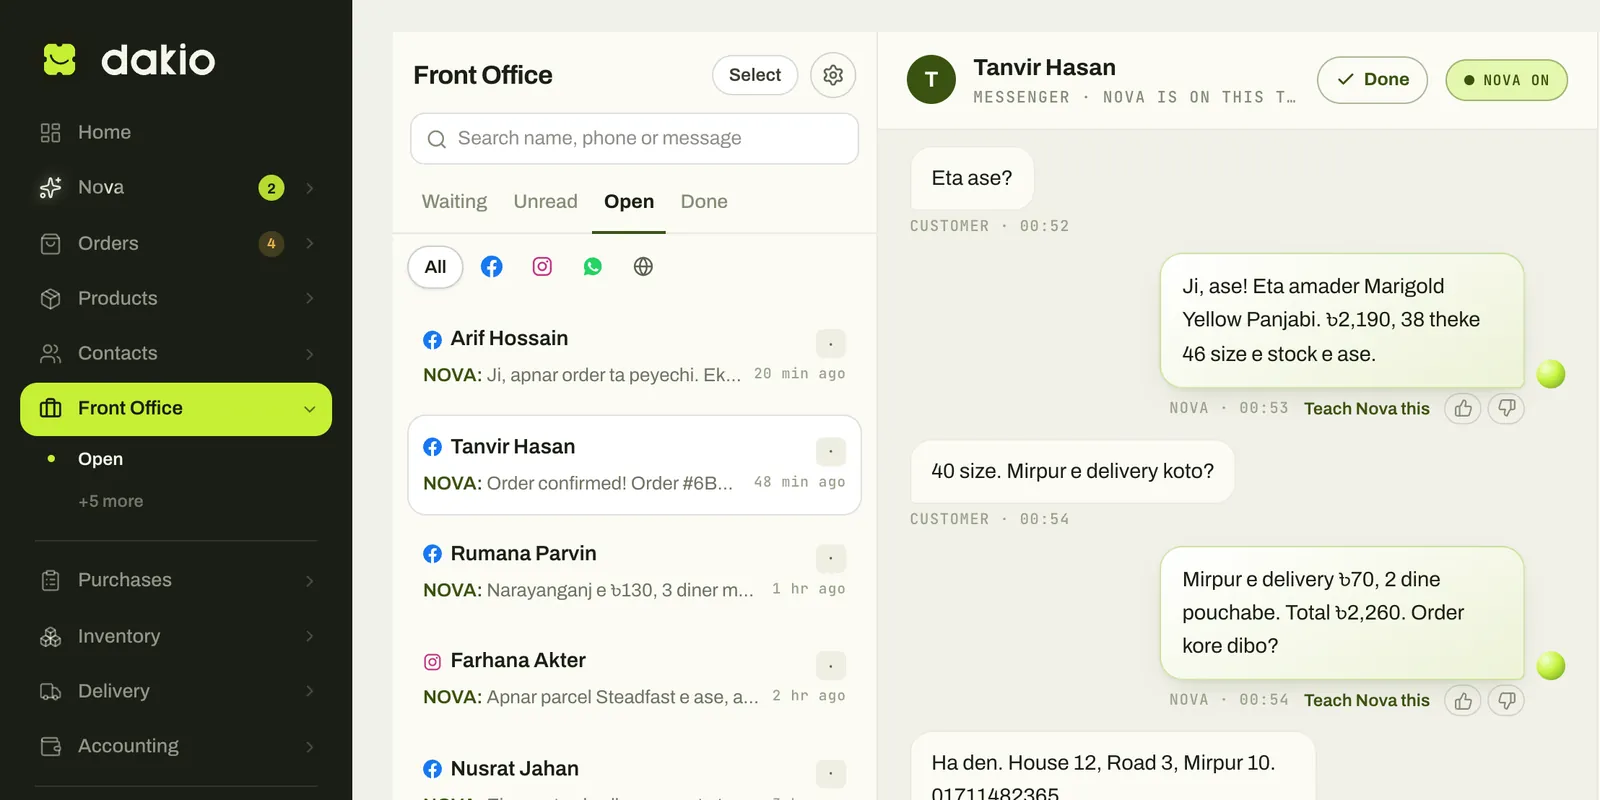
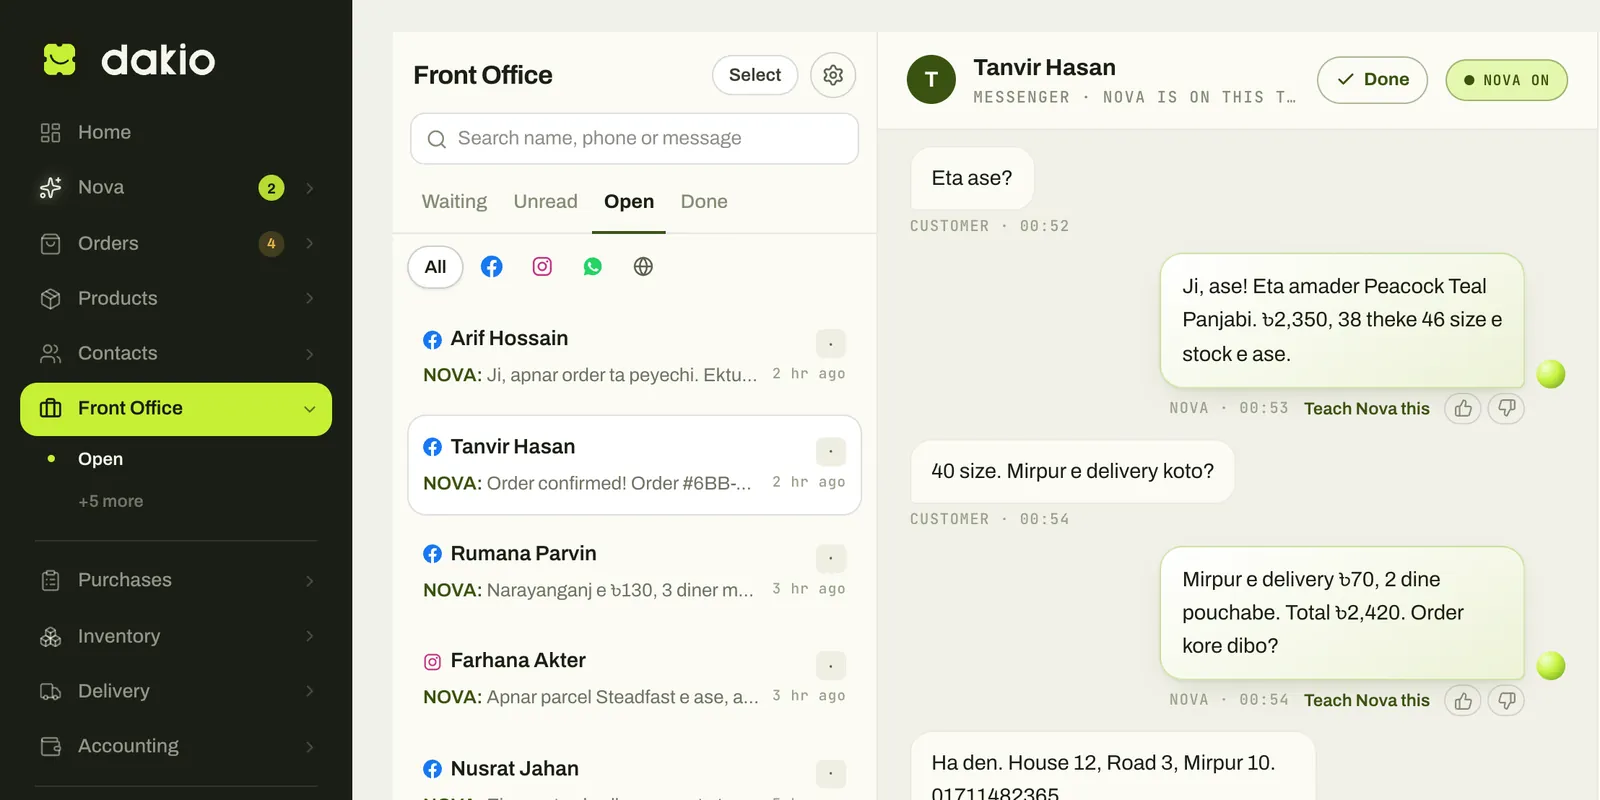
feat(home): the shop story uses the Peacock Teal Panjabi
A cleaner, editorial photo from Saril's own catalogue replaces the
Marigold Yellow Panjabi in the live chat, its product card, the 3D monitor
row and the copy (৳2,350 + ৳70 = ৳2,420, still order #6BB-VHQ6). The real
Orders and Inbox screenshots are re-shot to match. Chat photos are
anchored to the top so the model is never cropped.

diff --git a/content/copy/home.bn.js b/content/copy/home.bn.js
@@ -78,7 +78,7 @@ const home = {
       in: { t: "চ্যাট আসে", d: "মেসেঞ্জার, ইনস্টাগ্রাম, হোয়াটসঅ্যাপ আর আপনার ওয়েবসাইটের চ্যাট, সব এক ইনবক্সে।" },
       nova: { t: "Nova সিদ্ধান্ত নেয়", d: "মেসেজ পড়ে, দাম, স্টক আর খালি সময় মিলিয়ে, কয়েক সেকেন্ডে বাংলা বা ইংরেজিতে উত্তর দেয়।" },
       app: {
-        shop: { t: "অর্ডার তৈরি", d: "অর্ডার #6BB-VHQ6: ম্যারিগোল্ড ইয়েলো পাঞ্জাবি, সাইজ ৪০, ৳২,২৬০ ক্যাশ অন ডেলিভারি। স্টক নিজে থেকেই একটা কমে যায়, কাউকে কিছু টাইপ করতে হয়নি।" },
+        shop: { t: "অর্ডার তৈরি", d: "অর্ডার #6BB-VHQ6: পিকক টিল পাঞ্জাবি, সাইজ ৪০, ৳২,৪২০ ক্যাশ অন ডেলিভারি। স্টক নিজে থেকেই একটা কমে যায়, কাউকে কিছু টাইপ করতে হয়নি।" },
         svc: { t: "বুকিং তৈরি", d: "ব্রাইডাল ট্রায়াল, শুক্রবার বিকেল ৪টা, কনফার্মড। ক্যালেন্ডারে আর Rina-র দিনের তালিকায় উঠে গেছে, আর ক্লায়েন্টের ডিল নিজে থেকেই চলে গেছে ট্রায়াল / বুকিং ধাপে।" },
       },
       out: {
@@ -95,7 +95,7 @@ const home = {
     screens: [
       { key: "shop-orders", show: "shop", tab: "অর্ডার", url: "app.dakio.io/orders", alt: "Saril-এর Dakio অর্ডার পাতা: স্ট্যাটাস অনুযায়ী অর্ডারের সংখ্যা আর ছবি, কাস্টমার, মোট টাকা আর কুরিয়ার সহ অর্ডারের তালিকা", cap: "সব অর্ডার এক তালিকায়: চ্যাট, কমেন্ট, ওয়েবসাইট আর কাউন্টার থেকে, স্ট্যাটাস আর কুরিয়ার সহ।" },
       { key: "shop-products", show: "shop", tab: "প্রোডাক্ট আর স্টক", url: "app.dakio.io/products", alt: "Saril-এর Dakio প্রোডাক্ট পাতা: ছবি, ক্যাটাগরি, কেনা আর বিক্রির দাম, আর স্টক", cap: "আপনার পুরো ক্যাটালগ: ছবি, কেনা আর বিক্রির দাম, আর কতটা স্টকে আছে।" },
-      { key: "shop-inbox", show: "shop", tab: "ইনবক্স", url: "app.dakio.io/front-office", alt: "Dakio ফ্রন্ট অফিস ইনবক্স: মেসেঞ্জার আর ইনস্টাগ্রামের চ্যাট, আর Nova একটা Marigold Yellow Panjabi-র অর্ডার নিচ্ছে", cap: "মেসেঞ্জার, ইনস্টাগ্রাম আর হোয়াটসঅ্যাপ এক ইনবক্সে। এখানে Nova নিচ্ছে Marigold Yellow Panjabi-র অর্ডার।" },
+      { key: "shop-inbox", show: "shop", tab: "ইনবক্স", url: "app.dakio.io/front-office", alt: "Dakio ফ্রন্ট অফিস ইনবক্স: মেসেঞ্জার আর ইনস্টাগ্রামের চ্যাট, আর Nova একটা Peacock Teal Panjabi-র অর্ডার নিচ্ছে", cap: "মেসেঞ্জার, ইনস্টাগ্রাম আর হোয়াটসঅ্যাপ এক ইনবক্সে। এখানে Nova নিচ্ছে Peacock Teal Panjabi-র অর্ডার।" },
       { key: "svc-calendar", show: "svc", tab: "ক্যালেন্ডার", url: "app.dakio.io/bookings", alt: "Glow Studio-র Dakio বুকিং ক্যালেন্ডার: ক্লায়েন্ট, সার্ভিস আর আর্টিস্ট সহ এক সপ্তাহের বুকিং", cap: "এক নজরে পুরো সপ্তাহ: কে আসবেন, কখন, কী সার্ভিস আর কোন আর্টিস্টের কাছে। ঝিকমিক চিহ্ন মানে বুকিংটা Nova করেছে।" },
       { key: "svc-client", show: "svc", tab: "ক্লায়েন্টের পাতা", url: "app.dakio.io/customers", alt: "একজন কনের Dakio ক্লায়েন্ট পাতা: বিয়ের তারিখ, এলাকা, বাজেট, পরের বুকিং, চলতি ডিল আর বাকি টাকা", cap: "প্রতি ক্লায়েন্টের এক পাতা: বিয়ের তারিখ আর বাজেট, পরের বুকিং, ডিল আর কত টাকা বাকি।" },
       { key: "svc-pipeline", show: "svc", tab: "পাইপলাইন", url: "app.dakio.io/pipeline", alt: "Glow Studio-র Dakio পাইপলাইন: ধাপ অনুযায়ী এনকোয়ারি, টাকার অঙ্ক আর কে দেখছেন", cap: "প্রথম মেসেজ থেকে কনফার্ম পর্যন্ত প্রতিটা এনকোয়ারি, টাকার অঙ্ক আর কে দেখছেন সহ।" },
@@ -186,12 +186,12 @@ const home = {
     after: "তারপর Dakio নিজেই চালিয়ে যায়, আপনাকে ছাড়াই:",
     head: { shop: { name: "Saril", channel: "Messenger" }, svc: { name: "Glow Studio", channel: "Instagram" } },
     shop: [
-      { from: "them", shot: "Saril · Marigold Yellow Panjabi", img: "/demo/saril/marigold-yellow-panjabi.jpg", t: "এটা আছে?" },
-      { from: "nova", t: "জি, আছে! এটা আমাদের Marigold Yellow Panjabi।", product: { n: "Marigold Yellow Panjabi", p: "৳২,১৯০", note: "৩৮ থেকে ৪৬ সাইজ স্টকে আছে", img: "/demo/saril/marigold-yellow-panjabi.jpg" } },
+      { from: "them", shot: "Saril · Peacock Teal Panjabi", img: "/demo/saril/peacock-teal-panjabi.jpg", t: "এটা আছে?" },
+      { from: "nova", t: "জি, আছে! এটা আমাদের Peacock Teal Panjabi।", product: { n: "Peacock Teal Panjabi", p: "৳২,৩৫০", note: "৩৮ থেকে ৪৬ সাইজ স্টকে আছে", img: "/demo/saril/peacock-teal-panjabi.jpg" } },
       { from: "them", t: "৪০ সাইজ। মিরপুরে ডেলিভারি কত?" },
-      { from: "nova", t: "মিরপুরে ডেলিভারি ৳৭০, ২ দিনে পৌঁছাবে। মোট ৳২,২৬০। অর্ডার করে দিই?" },
+      { from: "nova", t: "মিরপুরে ডেলিভারি ৳৭০, ২ দিনে পৌঁছাবে। মোট ৳২,৪২০। অর্ডার করে দিই?" },
       { from: "them", t: "হ্যাঁ দেন। মিরপুর ১০, 01711-xxxxxx" },
-      { from: "nova", t: "অর্ডার কনফার্ম! রসিদ পাঠালাম। পার্সেল পাঠালে জানাব।", card: { t: "অর্ডার #6BB-VHQ6 · ৳২,২৬০", d: "ক্যাশ অন ডেলিভারি · আপনার অর্ডার তালিকায় উঠে গেছে" } },
+      { from: "nova", t: "অর্ডার কনফার্ম! রসিদ পাঠালাম। পার্সেল পাঠালে জানাব।", card: { t: "অর্ডার #6BB-VHQ6 · ৳২,৪২০", d: "ক্যাশ অন ডেলিভারি · আপনার অর্ডার তালিকায় উঠে গেছে" } },
     ],
     svc: [
       { from: "them", t: "শুক্রবার ব্রাইডাল ট্রায়াল করা যাবে?" },

diff --git a/content/copy/home.en.js b/content/copy/home.en.js
@@ -88,7 +88,7 @@ const home = {
       in: { t: "Chats come in", d: "Messenger, Instagram, WhatsApp and the chat on your website land in one inbox." },
       nova: { t: "Nova decides", d: "She reads the message, checks the price, the stock and the free times, and answers in Bangla or English in seconds." },
       app: {
-        shop: { t: "Order is made", d: "Order #6BB-VHQ6: Marigold Yellow Panjabi, size 40, ৳2,260 cash on delivery. Stock goes down by one on its own, and nobody typed a thing." },
+        shop: { t: "Order is made", d: "Order #6BB-VHQ6: Peacock Teal Panjabi, size 40, ৳2,420 cash on delivery. Stock goes down by one on its own, and nobody typed a thing." },
         svc: { t: "Booking is made", d: "Bridal trial, Friday 4 PM, confirmed. It is on the calendar and on Rina's day list, and the client's deal moves to Trial / booking by itself." },
       },
       out: {
@@ -107,7 +107,7 @@ const home = {
     screens: [
       { key: "shop-orders", show: "shop", tab: "Orders", url: "app.dakio.io/orders", alt: "Dakio Orders page for Saril: order counts by status and a list of orders with photos, customers, totals and couriers", cap: "Every order in one list, from chats, comments, your website and the counter, with its status and courier." },
       { key: "shop-products", show: "shop", tab: "Products and stock", url: "app.dakio.io/products", alt: "Dakio Products page for Saril: products with photos, category, purchase and selling price, and stock", cap: "Your catalogue with photos, purchase and selling price, and the stock you have." },
-      { key: "shop-inbox", show: "shop", tab: "Inbox", url: "app.dakio.io/front-office", alt: "Dakio Front Office inbox: chats from Messenger and Instagram, and Nova taking an order for a Marigold Yellow Panjabi", cap: "Messenger, Instagram and WhatsApp in one inbox. Here Nova takes the Marigold Yellow Panjabi order." },
+      { key: "shop-inbox", show: "shop", tab: "Inbox", url: "app.dakio.io/front-office", alt: "Dakio Front Office inbox: chats from Messenger and Instagram, and Nova taking an order for a Peacock Teal Panjabi", cap: "Messenger, Instagram and WhatsApp in one inbox. Here Nova takes the Peacock Teal Panjabi order." },
       { key: "svc-calendar", show: "svc", tab: "Calendar", url: "app.dakio.io/bookings", alt: "Dakio Bookings calendar for Glow Studio: a week of bookings with the client, service and artist", cap: "The week at a glance: who comes, when, for what and with which artist. The sparkle marks a booking Nova made." },
       { key: "svc-client", show: "svc", tab: "Client page", url: "app.dakio.io/customers", alt: "Dakio client page for a bride: wedding date, area, budget, next booking, open deal and balance due", cap: "One page per client: her wedding date and budget, the next booking, the deal and what she still owes." },
       { key: "svc-pipeline", show: "svc", tab: "Pipeline", url: "app.dakio.io/pipeline", alt: "Dakio Pipeline board for Glow Studio: enquiries by stage with value and who handles each", cap: "Every enquiry from the first message to won, with its value and who is on it." },
@@ -204,12 +204,12 @@ const home = {
     after: "Then Dakio carries on, without you:",
     head: { shop: { name: "Saril", channel: "Messenger" }, svc: { name: "Glow Studio", channel: "Instagram" } },
     shop: [
-      { from: "them", shot: "Saril · Marigold Yellow Panjabi", img: "/demo/saril/marigold-yellow-panjabi.jpg", t: "Eta ase?" },
-      { from: "nova", t: "Ji, ase! Eta amader Marigold Yellow Panjabi.", product: { n: "Marigold Yellow Panjabi", p: "৳2,190", note: "38 to 46 in stock", img: "/demo/saril/marigold-yellow-panjabi.jpg" } },
+      { from: "them", shot: "Saril · Peacock Teal Panjabi", img: "/demo/saril/peacock-teal-panjabi.jpg", t: "Eta ase?" },
+      { from: "nova", t: "Ji, ase! Eta amader Peacock Teal Panjabi.", product: { n: "Peacock Teal Panjabi", p: "৳2,350", note: "38 to 46 in stock", img: "/demo/saril/peacock-teal-panjabi.jpg" } },
       { from: "them", t: "40 size. Mirpur e delivery koto?" },
-      { from: "nova", t: "Mirpur e delivery ৳70, 2 dine pouchabe. Total ৳2,260. Order kore dibo?" },
+      { from: "nova", t: "Mirpur e delivery ৳70, 2 dine pouchabe. Total ৳2,420. Order kore dibo?" },
       { from: "them", t: "Ha den. Mirpur 10, 01711-xxxxxx" },
-      { from: "nova", t: "Order confirmed! Receipt pathalam. Parcel pathale janabo.", card: { t: "Order #6BB-VHQ6 · ৳2,260", d: "Cash on delivery · now in your Orders" } },
+      { from: "nova", t: "Order confirmed! Receipt pathalam. Parcel pathale janabo.", card: { t: "Order #6BB-VHQ6 · ৳2,420", d: "Cash on delivery · now in your Orders" } },
     ],
     svc: [
       { from: "them", t: "Friday bridal trial kora jabe?" },

diff --git a/app/home.css b/app/home.css
@@ -157,10 +157,10 @@
 .hm-typing-bubble i:nth-child(2) { animation-delay: .15s; }
 .hm-typing-bubble i:nth-child(3) { animation-delay: .3s; }
 .hm-shot { width: 150px; border-radius: 14px; overflow: hidden; border: 1px solid #E3E5DA; background: #FFFFFF; display: grid; }
-.hm-shot-img { display: block; width: 100%; height: 150px; object-fit: cover; object-position: 50% 22%; background: #E9EADF; }
+.hm-shot-img { display: block; width: 100%; height: 170px; object-fit: cover; object-position: 50% 0%; background: #E9EADF; }
 .hm-shot-cap { padding: 6px 9px; font-size: 11px; color: #4A4D40; }
 .hm-pcard { display: flex; gap: 10px; align-items: center; padding: 8px; border-radius: 14px; background: #FFFFFF; border: 1px solid #E3E5DA; }
-.hm-pcard-img { display: block; width: 44px; height: 56px; border-radius: 9px; flex-shrink: 0; object-fit: cover; object-position: 50% 20%; background: #E9EADF; }
+.hm-pcard-img { display: block; width: 44px; height: 56px; border-radius: 9px; flex-shrink: 0; object-fit: cover; object-position: 50% 8%; background: #E9EADF; }
 .hm-pcard-txt { display: grid; gap: 2px; font-size: 12.5px; color: #55584B; }
 .hm-pcard-txt b { font-size: 13px; color: #1A1D12; }
 .hm-chips { display: flex; gap: 6px; flex-wrap: wrap; }

diff --git a/components/home/NovaMachine.jsx b/components/home/NovaMachine.jsx
@@ -21,7 +21,7 @@ const SCREENS = {
   shop: {
     title: "Orders", sub: "Saril · today", menu: ["Orders", "Products", "Customers", "Inbox", "Couriers"], byNova: "BY NOVA",
     cols: [{ h: "Order", x: 0 }, { h: "Area", x: 140 }, { h: "Items", x: 300 }, { h: "Total", x: 580 }, { h: "Payment", x: 700 }],
-    fresh: ["#6BB-VHQ6", "Mirpur 10", "Marigold Yellow Panjabi · 40", "৳2,260", "COD"],
+    fresh: ["#6BB-VHQ6", "Mirpur 10", "Peacock Teal Panjabi · 40", "৳2,420", "COD"],
     rows: [
       ["#8CG-HH5N", "Dhanmondi", "2 items", "৳4,170", "bKash"],
       ["#5XW-LWHP", "Khilgaon", "1 item", "৳2,420", "COD"],

diff --git a/HOME_COPY.md b/HOME_COPY.md
@@ -123,8 +123,8 @@ _Below the headline, across the hero: a 3D line drawn in thin light outlines on 
 - BN: নোভা সিদ্ধান্ত নেয়: মেসেজ পড়ে, দাম, স্টক আর খালি সময় মিলিয়ে, কয়েক সেকেন্ডে বাংলা বা ইংরেজিতে উত্তর দেয়।
 
 **03 · Shop · Order is made**
-- EN: Order is made: Order #6BB-VHQ6: Marigold Yellow Panjabi, size 40, ৳2,260 cash on delivery. In your orders, nobody typed it.
-- BN: অর্ডার তৈরি: অর্ডার #6BB-VHQ6: ম্যারিগোল্ড ইয়েলো পাঞ্জাবি, সাইজ ৪০, ৳২,২৬০ ক্যাশ অন ডেলিভারি। আপনার অর্ডারে, কাউকে টাইপ করতে হয়নি।
+- EN: Order is made: Order #6BB-VHQ6: Peacock Teal Panjabi, size 40, ৳2,420 cash on delivery. In your orders, nobody typed it.
+- BN: অর্ডার তৈরি: অর্ডার #6BB-VHQ6: পিকক টিল পাঞ্জাবি, সাইজ ৪০, ৳২,৪২০ ক্যাশ অন ডেলিভারি। আপনার অর্ডারে, কাউকে টাইপ করতে হয়নি।
 
 **03 · Services · Booking is made**
 - EN: Booking is made: Bridal trial, Friday 4 PM. On your calendar and confirmed, with the client's name and phone.
@@ -255,8 +255,8 @@ _Real screens of the merchant app (public/app/*.webp, 1600x800), taken on the ex
 - BN: ইনবক্স
 
 **Shops · Inbox · caption**
-- EN: Messenger, Instagram and WhatsApp in one inbox. Here Nova takes the Marigold Yellow Panjabi order.
-- BN: মেসেঞ্জার, ইনস্টাগ্রাম আর হোয়াটসঅ্যাপ এক ইনবক্সে। এখানে Nova নিচ্ছে Marigold Yellow Panjabi-র অর্ডার।
+- EN: Messenger, Instagram and WhatsApp in one inbox. Here Nova takes the Peacock Teal Panjabi order.
+- BN: মেসেঞ্জার, ইনস্টাগ্রাম আর হোয়াটসঅ্যাপ এক ইনবক্সে। এখানে Nova নিচ্ছে Peacock Teal Panjabi-র অর্ডার।
 
 **Services · tab**
 - EN: Calendar
@@ -493,28 +493,28 @@ _Scroll-driven: the phone stays pinned while the reader scrolls; each stretch of
 _A phone plays one conversation where Nova turns chat into an order or a booking; when the card lands, the five steps beside it light up one by one, then it plays again. The English page shows Banglish, the way customers write. Each Nova move is a built feature._
 
 **Shop · Saril · Messenger · Customer**
-- EN: Eta ase? [screenshot with photo: Saril · Marigold Yellow Panjabi]
-- BN: এটা আছে? [screenshot with photo: Saril · Marigold Yellow Panjabi]
+- EN: Eta ase? [screenshot with photo: Saril · Peacock Teal Panjabi]
+- BN: এটা আছে? [screenshot with photo: Saril · Peacock Teal Panjabi]
 
 **Shop · Saril · Messenger · Nova**
-- EN: Ji, ase! Eta amader Marigold Yellow Panjabi. [product card with photo: Marigold Yellow Panjabi · ৳2,190 · 38 to 46 in stock]
-- BN: জি, আছে! এটা আমাদের Marigold Yellow Panjabi। [product card with photo: Marigold Yellow Panjabi · ৳২,১৯০ · ৩৮ থেকে ৪৬ সাইজ স্টকে আছে]
+- EN: Ji, ase! Eta amader Peacock Teal Panjabi. [product card with photo: Peacock Teal Panjabi · ৳2,350 · 38 to 46 in stock]
+- BN: জি, আছে! এটা আমাদের Peacock Teal Panjabi। [product card with photo: Peacock Teal Panjabi · ৳২,৩৫০ · ৩৮ থেকে ৪৬ সাইজ স্টকে আছে]
 
 **Shop · Saril · Messenger · Customer**
 - EN: 40 size. Mirpur e delivery koto?
 - BN: ৪০ সাইজ। মিরপুরে ডেলিভারি কত?
 
 **Shop · Saril · Messenger · Nova**
-- EN: Mirpur e delivery ৳70, 2 dine pouchabe. Total ৳2,260. Order kore dibo?
-- BN: মিরপুরে ডেলিভারি ৳৭০, ২ দিনে পৌঁছাবে। মোট ৳২,২৬০। অর্ডার করে দিই?
+- EN: Mirpur e delivery ৳70, 2 dine pouchabe. Total ৳2,420. Order kore dibo?
+- BN: মিরপুরে ডেলিভারি ৳৭০, ২ দিনে পৌঁছাবে। মোট ৳২,৪২০। অর্ডার করে দিই?
 
 **Shop · Saril · Messenger · Customer**
 - EN: Ha den. Mirpur 10, 01711-xxxxxx
 - BN: হ্যাঁ দেন। মিরপুর ১০, 01711-xxxxxx
 
 **Shop · Saril · Messenger · Nova**
-- EN: Order confirmed! Receipt pathalam. Parcel pathale janabo. [card: Order #6BB-VHQ6 · ৳2,260 · Cash on delivery · now in your Orders]
-- BN: অর্ডার কনফার্ম! রসিদ পাঠালাম। পার্সেল পাঠালে জানাব। [card: অর্ডার #6BB-VHQ6 · ৳২,২৬০ · ক্যাশ অন ডেলিভারি · আপনার অর্ডার তালিকায় উঠে গেছে]
+- EN: Order confirmed! Receipt pathalam. Parcel pathale janabo. [card: Order #6BB-VHQ6 · ৳2,420 · Cash on delivery · now in your Orders]
+- BN: অর্ডার কনফার্ম! রসিদ পাঠালাম। পার্সেল পাঠালে জানাব। [card: অর্ডার #6BB-VHQ6 · ৳২,৪২০ · ক্যাশ অন ডেলিভারি · আপনার অর্ডার তালিকায় উঠে গেছে]
 
 **Service · Glow Studio · Instagram · Customer**
 - EN: Friday bridal trial kora jabe?
